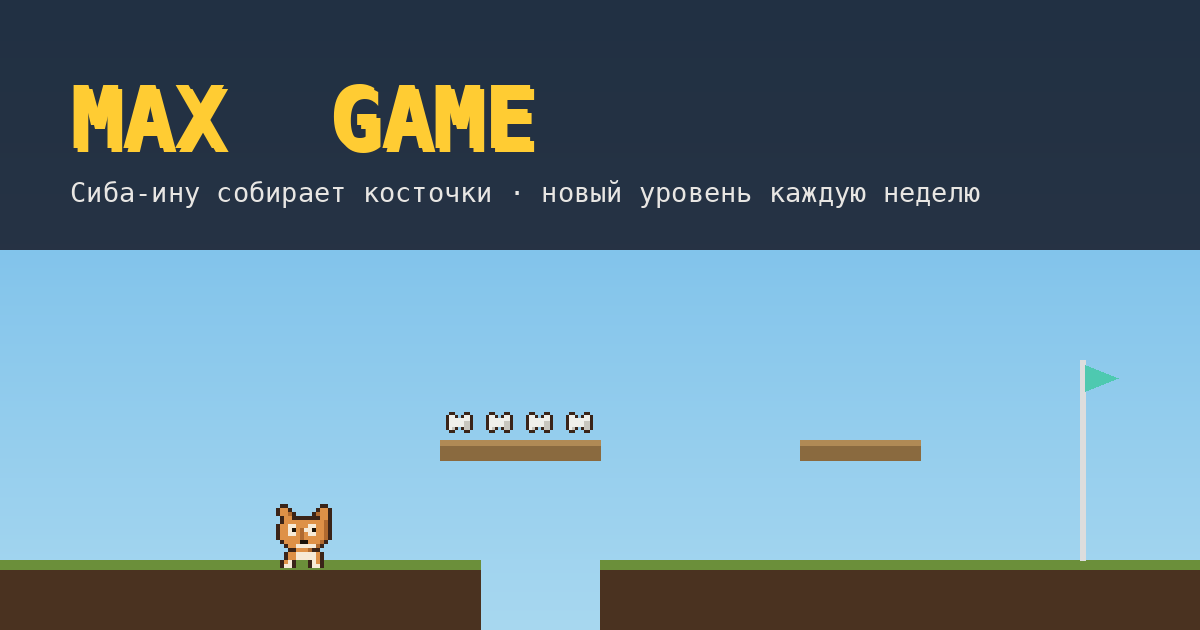
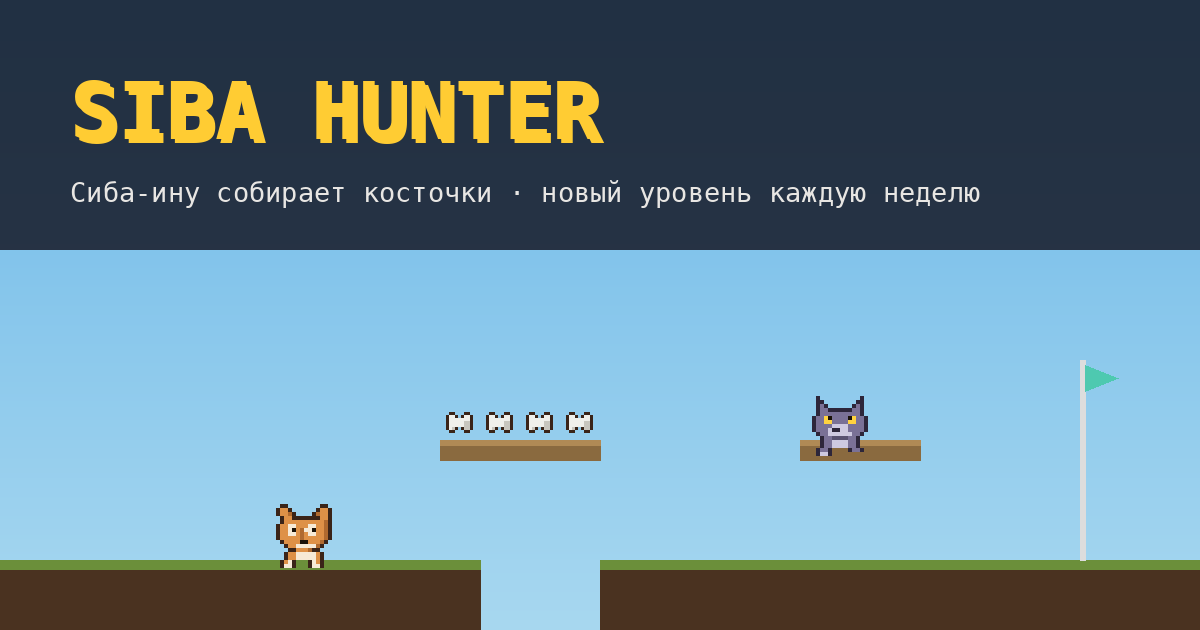
feat: rename to Siba Hunter

Changed region(s): [[0.2467, 0.1206, 0.5242, 0.2413], [0.0617, 0.1206, 0.2158, 0.2413], [0.6783, 0.6333, 0.74, 0.7238]]

diff --git a/index.html b/index.html
@@ -3,14 +3,14 @@
 <head>
 <meta charset="UTF-8">
 <meta name="viewport" content="width=device-width, initial-scale=1.0, maximum-scale=1.0, user-scalable=no, viewport-fit=cover">
-<title>Max Game — браузерная бродилка</title>
+<title>Siba Hunter — браузерная бродилка</title>
 <meta name="description" content="Сиба-ину собирает косточки. Новый уровень каждую неделю.">
 
 <link rel="icon" href="favicon.svg" type="image/svg+xml">
 
 <meta property="og:type" content="website">
-<meta property="og:site_name" content="Max Game">
-<meta property="og:title" content="Max Game — браузерная бродилка">
+<meta property="og:site_name" content="Siba Hunter">
+<meta property="og:title" content="Siba Hunter — браузерная бродилка">
 <meta property="og:description" content="Сиба-ину собирает косточки. Новый уровень каждую неделю.">
 <meta property="og:url" content="https://maxshplmax.github.io/max-game/">
 <meta property="og:image" content="https://maxshplmax.github.io/max-game/og.png">
@@ -26,7 +26,7 @@
 <body class="page-game">
 
   <header class="bar bar-top">
-    <span class="brand">MAX GAME</span>
+    <span class="brand">SIBA HUNTER</span>
     <nav class="bar-links">
       <a href="changelog.html">Обновления</a>
       <a href="https://github.com/maxshplmax/max-game">GitHub</a>

diff --git a/changelog.html b/changelog.html
@@ -3,15 +3,15 @@
 <head>
 <meta charset="UTF-8">
 <meta name="viewport" content="width=device-width, initial-scale=1.0">
-<title>Обновления — Max Game</title>
-<meta name="description" content="Что менялось в Max Game от версии к версии.">
+<title>Обновления — Siba Hunter</title>
+<meta name="description" content="Что менялось в Siba Hunter от версии к версии.">
 
 <link rel="icon" href="favicon.svg" type="image/svg+xml">
 
 <meta property="og:type" content="article">
-<meta property="og:site_name" content="Max Game">
-<meta property="og:title" content="Обновления — Max Game">
-<meta property="og:description" content="Что менялось в Max Game от версии к версии.">
+<meta property="og:site_name" content="Siba Hunter">
+<meta property="og:title" content="Обновления — Siba Hunter">
+<meta property="og:description" content="Что менялось в Siba Hunter от версии к версии.">
 <meta property="og:url" content="https://maxshplmax.github.io/max-game/changelog.html">
 <meta property="og:image" content="https://maxshplmax.github.io/max-game/og.png">
 <meta name="twitter:card" content="summary_large_image">

diff --git a/changelog.js b/changelog.js
@@ -15,6 +15,15 @@
 
 const CHANGELOG = [
   {
+    version: '0.11.0',
+    date: '2026-08-04',
+    title: 'Игра называется Siba Hunter',
+    changes: [
+      { type: 'feat',  text: 'Новое название вместо рабочего Max Game' },
+      { type: 'chore', text: 'Перерисована карточка для ссылок — на ней теперь и кот' },
+    ],
+  },
+  {
     version: '0.10.0',
     date: '2026-08-04',
     title: 'Третий уровень: Низкие своды',

diff --git a/.github/scripts/post-telegram.js b/.github/scripts/post-telegram.js
@@ -73,7 +73,7 @@ function escapeHtml(s) {
 function buildMessage(release, siteUrl) {
   const lines = [];
 
-  lines.push('🐕 <b>Max Game v' + escapeHtml(release.version) + '</b>');
+  lines.push('🐕 <b>Siba Hunter v' + escapeHtml(release.version) + '</b>');
   lines.push(escapeHtml(release.title));
   lines.push('');
 

diff --git a/README.md b/README.md
@@ -1,4 +1,4 @@
-# Max Game
+# Siba Hunter
 
 Браузерный платформер про сиба-ину, который собирает косточки.
 
